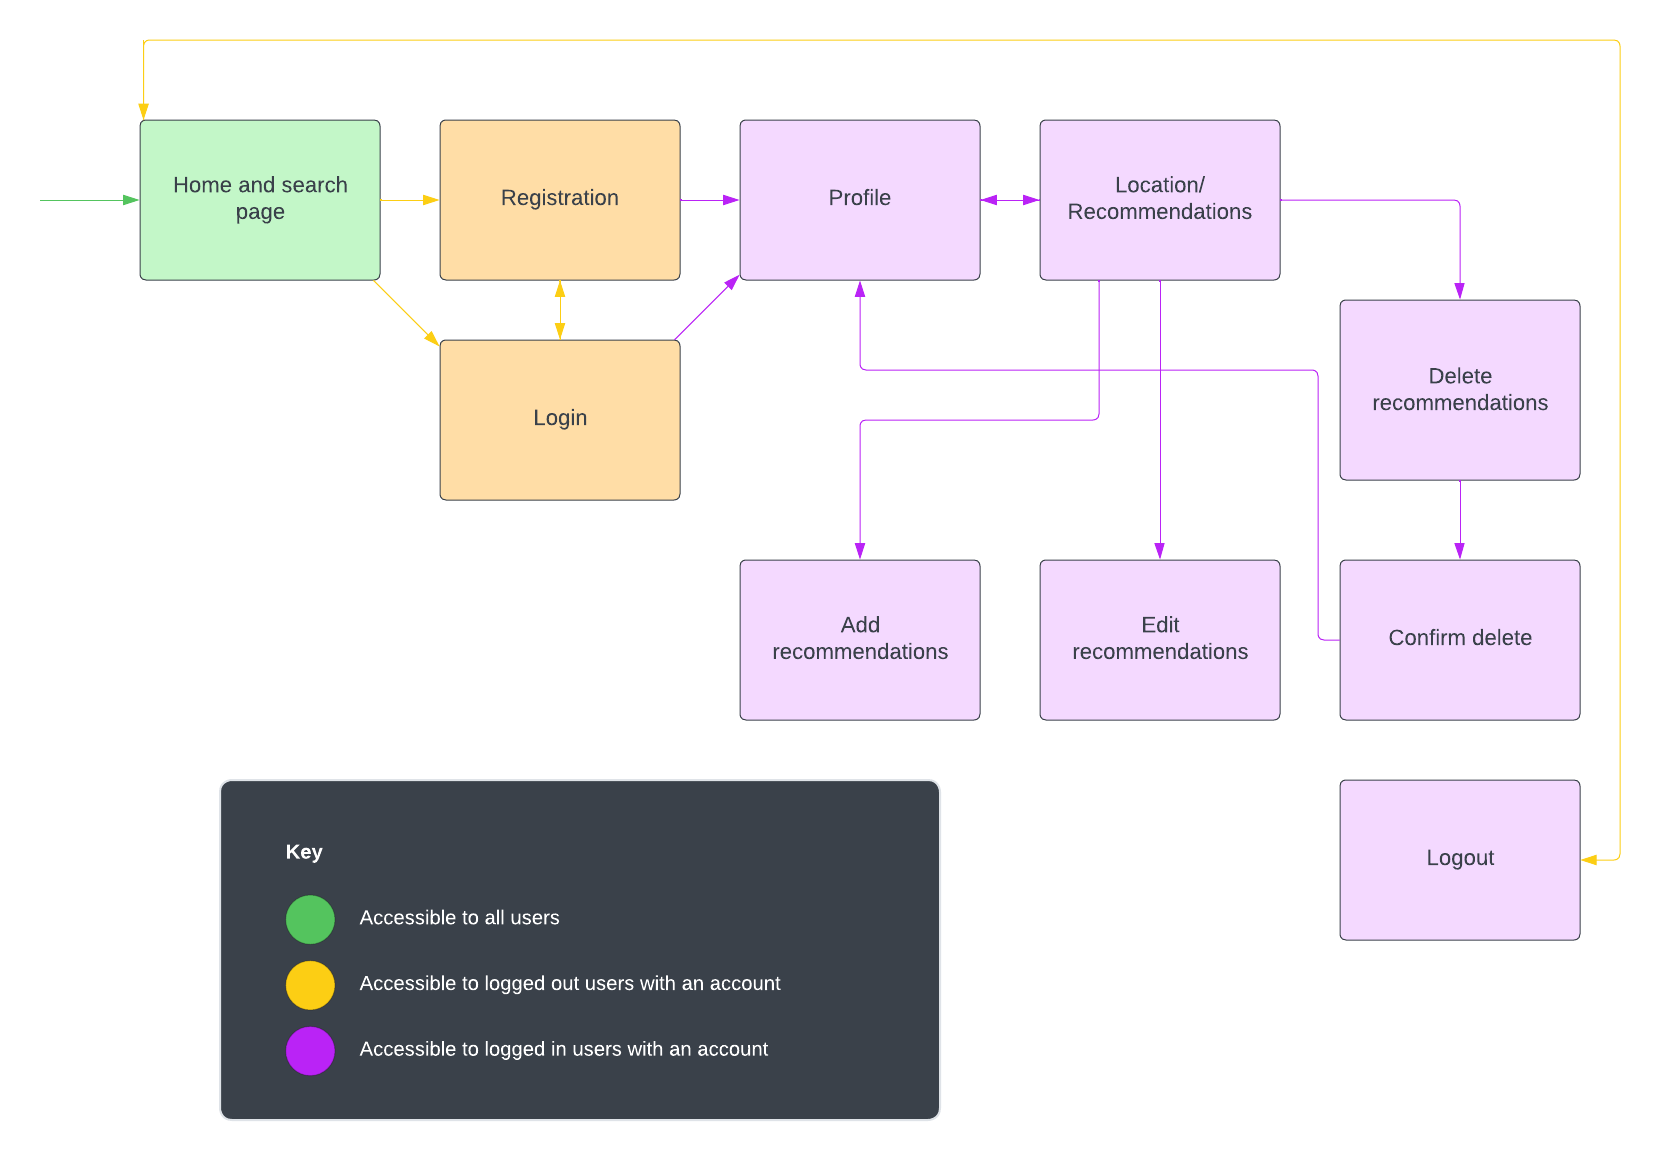
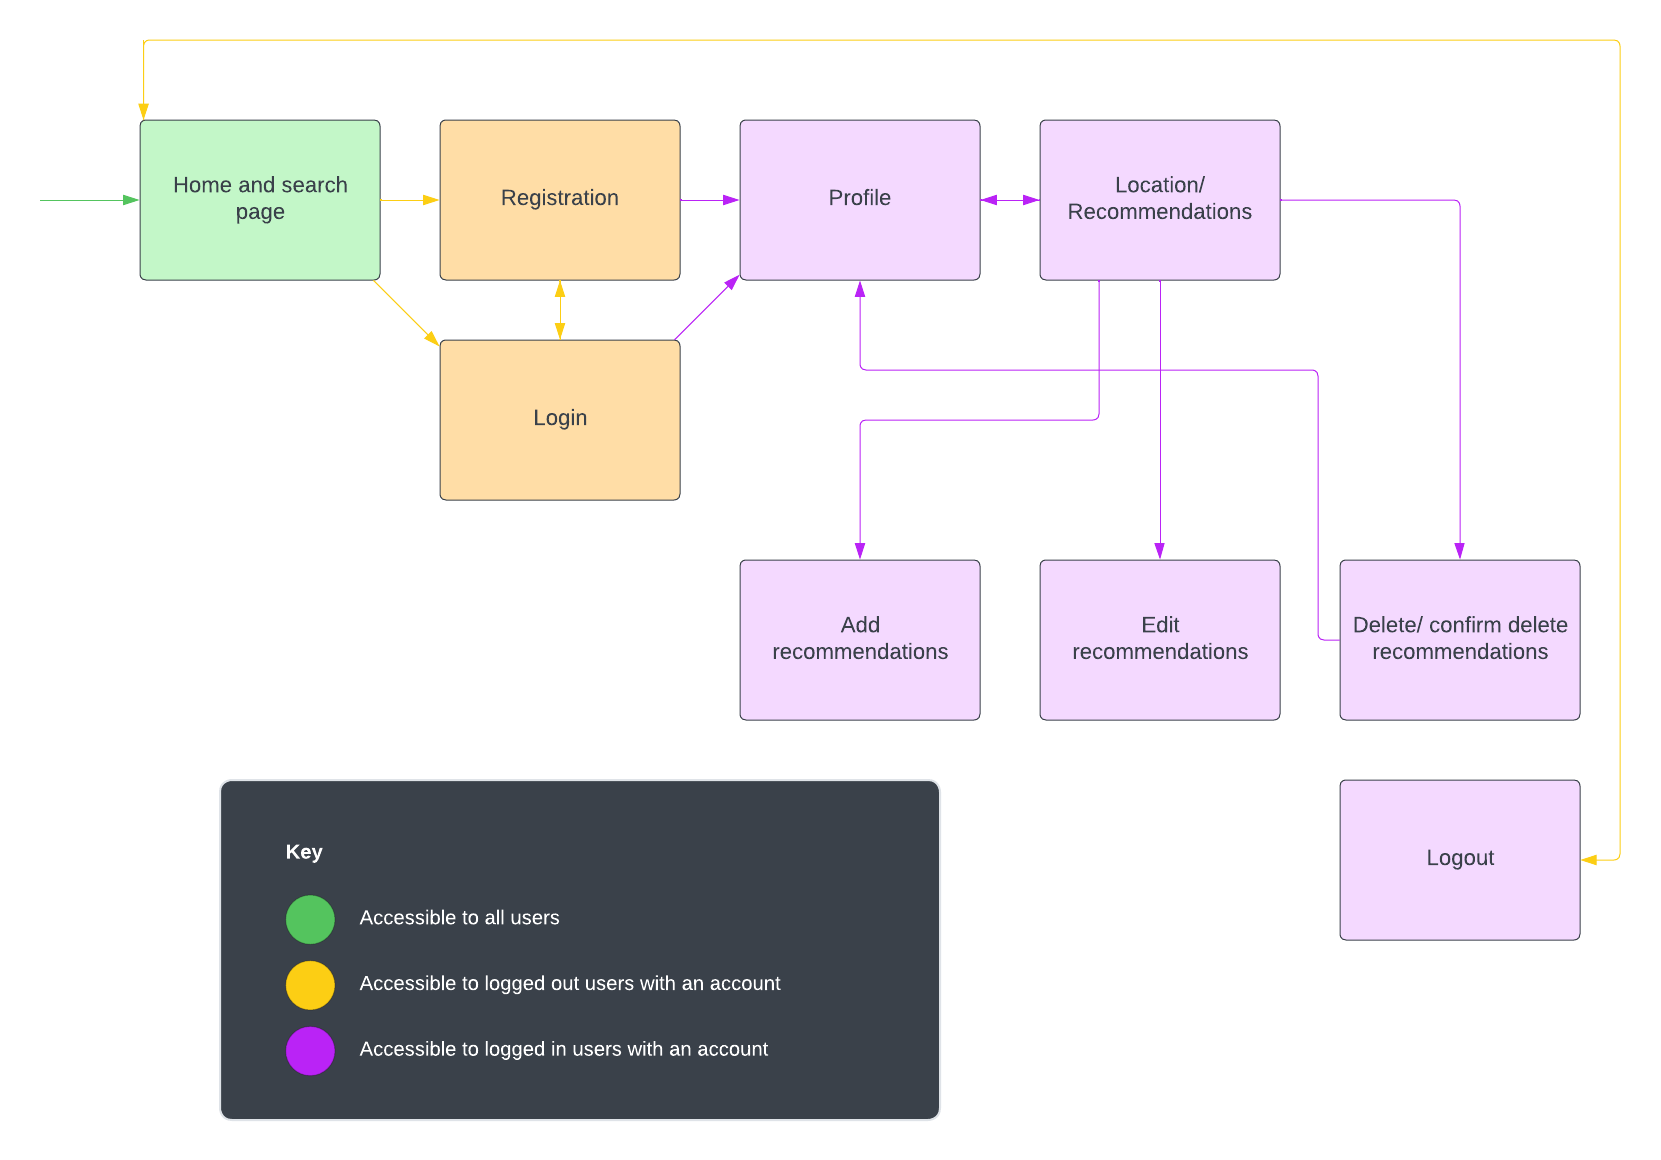
Updated README and added flow diagram

Changed region(s): [[0.7983, 0.2483, 0.9518, 0.4345], [0.829, 0.5276, 0.9518, 0.5897]]

diff --git a/README.md b/README.md
@@ -2,7 +2,11 @@
 
 # The Jetsetter Journal
 
-The Jetsetter Journal is a website for frequent travellers to share their recommendations for specific destinations or to pick up suggestions for upcoming holidays. The [live website is here](https://the-jetsetters-journal-834f32dcb176.herokuapp.com/).
+The Jetsetter Journal is a website for frequent travellers to search for inspiration for their upcoming holidys. Users are also able to share and manage their own recommendations via their profile page.
+
+The functions to build this application were written in Python and using the Flask framework. All data was stored in a Mongodb non-relational database and was deployed via Heroku. 
+
+The [live website is here](https://the-jetsetters-journal-834f32dcb176.herokuapp.com/).
 
 ## Table of Contents
 
@@ -17,6 +21,7 @@ The Jetsetter Journal is a website for frequent travellers to share their recomm
 ### Technologies
 ### Testing
 - Test Results and Bugs
+### Future Improvements
 ### Deployment
 ### Credits
 
@@ -71,14 +76,15 @@ The table below shows all planned features of the site, detailing the user type,
 
 ------
 
-![Picture of the website on different devices](static/images/flow_chart.png)
+## Structure
 
-The site will consist of 10 pages, including:
+![Flow diagram of how the app will function](static/images/flow_chart.png)
 
-### Home page
-- Site branding, about section
-- Navigation bar
-- Location map (powered by Google Maps API)
+The site will consist of 9 pages, including:
+
+### Home page and search page
+- An about section explaining the purpose of the app
+- Search bar that enables the user to view all recommendations made on the app and filter the results by user, category, city name and comment
 
 ### Registration page
 - User sign-up form
@@ -87,43 +93,81 @@ The site will consist of 10 pages, including:
 - User login form
 
 ### Profile page
-- Summary of user recommendations
+- Interactive map with clickable markers that signals to the user what countries they can get information on 
 
 ### Location/recommendations page
-- All destinations and recommendations
+- Loads the user recommendations and location information based on the country that was selected on the interactive map
+- Users are able to view the recommendations they've created and choose to edit or delete their recommendations
 
 ### Add recommendations page
 - Form to add recommendations
 
 ### Edit recommendations page
-- Edit user's recommendations
+- Form to edit a recommendation
 
-### Add locations page
-- Form for superusers to add locations
-
-### Edit locations page
-- Edit locations added by superusers
+### Delete recommendations page
+- Confirmation page asking if the user is sure they want to delete a particular recommendation
 
 ### Logout page
 - Logout confirmation page
 
+-----
+
 ## Database Structure
 
-[Link to database structure diagram.]
-[Screenshots of example database records.]
+All data was stored in a Mongodb non-relational database. The database itself was made up of 3 collections: 
 
-The database structure includes collections:
 - Users
-- Recommendations
+- Locations 
+- Recommendations 
 
-Posts have titles, content, author (username), date, and category name.
+Each user was structured in a document consisting of the following information:
 
-Recommendation Categories:
+{"_id":{
+    "$oid":"65aa84745a73b727dbd8c693"
+    },
+    "username":" ",
+    "password":" "
+    }
+
+Users signed up with a username and a password which was hashed by Werkzeug before being stored in Mongodb. All recommendations added to the platform were assigned with the corresponding username who created them. 
+
+
+Each location available to view and add recommendations to was structured like so: 
+
+{"_id":{
+    "$oid":"65965e27b3c707b84b9c0eb3"
+    },
+    "country":"USA",
+    "description":"Immerse yourself in the vibrant energy of New York City, where towering skyscrapers, iconic landmarks,
+     diverse cultures, and a pulsating rhythm create an unforgettable urban experience.",
+    "name":"New York City"
+    }
+
+The location information was dynamically rendered to the view_recommendations page depending on which location was clicked on the interactive map. 
+
+
+Each recommendation added to the application was structured in the following way: 
+
+{"_id":{
+    "$oid":"65ae84f4338fb61a690c8fdb"
+    },
+    "city_id":{"$oid":"65965e27b3c707b84b9c0eb3"},
+    "user":"sianlouise",
+    "category":"Things to do",
+    "comment":"Highly recommend checking out the High Line in NYC—I absolutely 
+    enjoyed the scenic walk, the greenery, and the vibrant atmosphere!"
+    }
+
+All recommendations were assigned a city_id which corresponds to the object_id of the location that each recommendation was for. For example, a recommendation for Bangkok contained the object_Id for the location of Bangkok. This was stored under the field city_id. This was useful when adding recommendations or searching for specific recommendations under a specific city name. 
+
+Recommendations were grouped into 3 categories: 
+
 - Things to do
 - Where to eat
 - Where to stay
 
-An index in MongoDB is used to query posts by location and category name.
+All recommendations had an objectID that enabled specific recommendations to be queried and rendered to the application interface. This made it possible for editing and deletion of recommendations on the site.
 
 ## Skeleton
 
